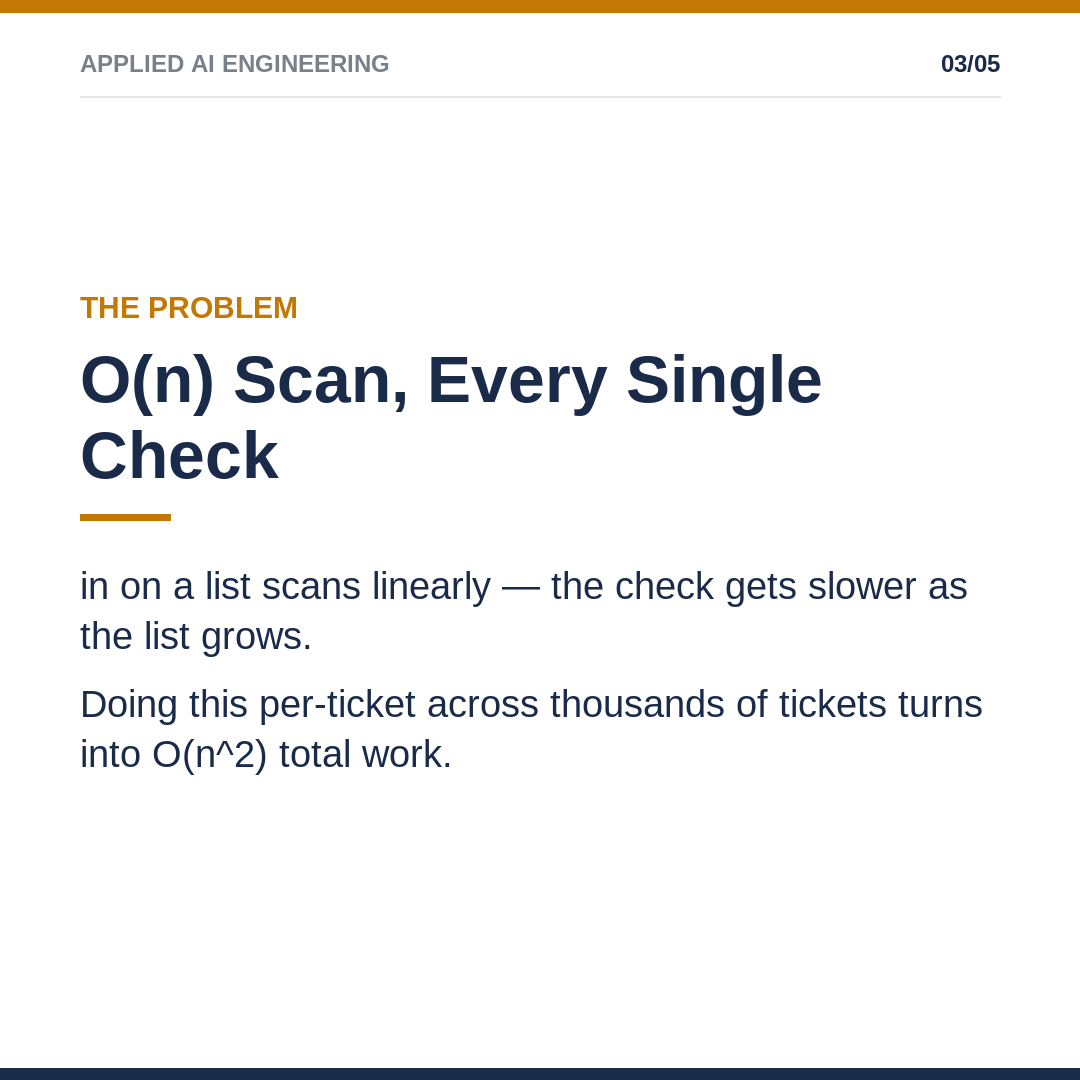
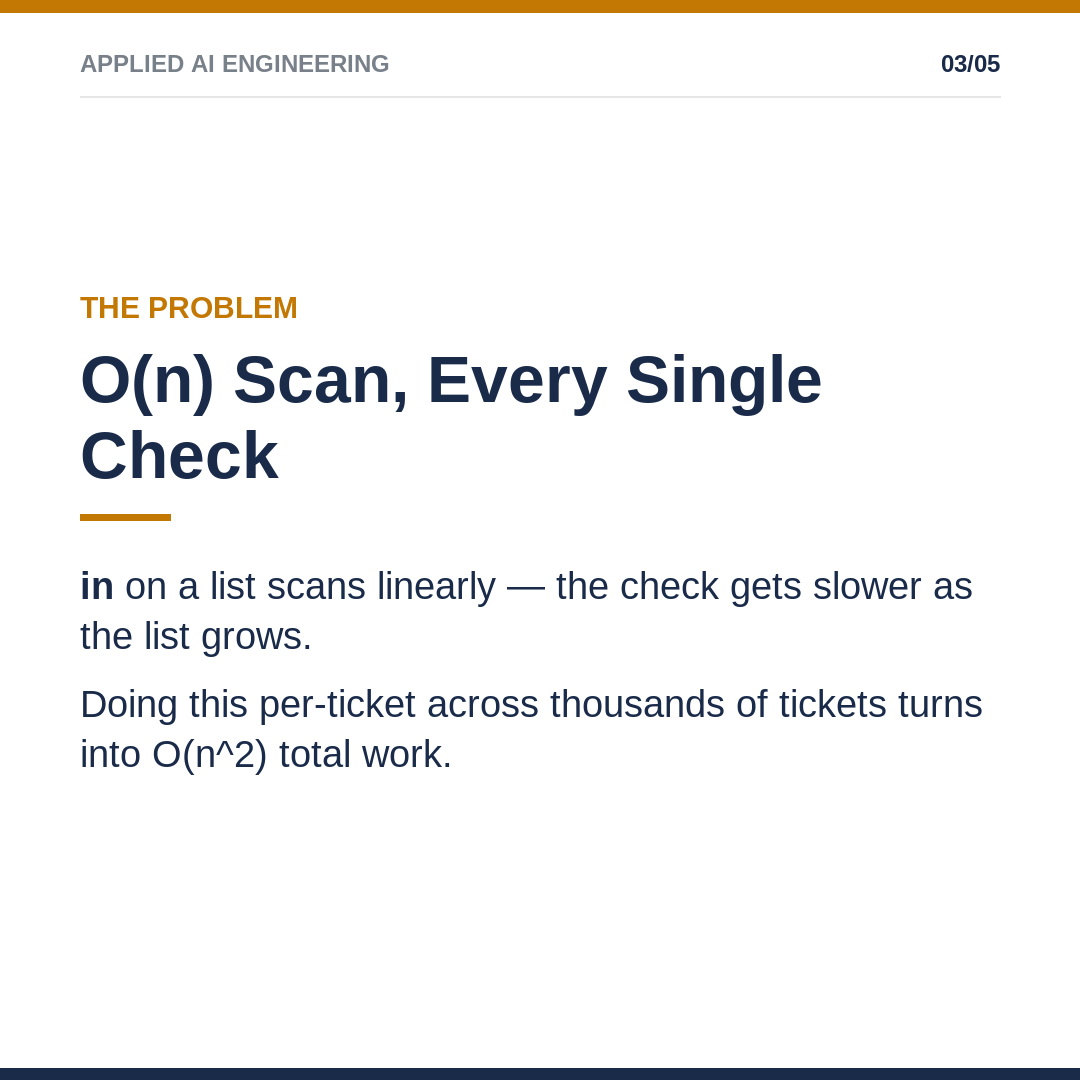
Fix post 26 slide-03: dropped-word fragment ('in on a list' -> bolded 'in')

Changed region(s): [[0.4889, 0.5194, 0.9167, 0.5806], [0.0611, 0.5194, 0.4583, 0.5806]]

diff --git a/assets/social-posts/26-interview-set-vs-list/gen.py b/assets/social-posts/26-interview-set-vs-list/gen.py
@@ -19,7 +19,7 @@ slide(p("slide-02.png"), 2, 5, "The Question", "Thousands Of IDs, One Check",
       code="if ticket_id in processed:  # looks fine... at first")
 
 slide(p("slide-03.png"), 3, 5, "The Problem", "O(n) Scan, Every Single Check",
-      ["in on a list scans linearly — the check gets slower as the list grows.",
+      ["**in** on a list scans linearly — the check gets slower as the list grows.",
        "Doing this per-ticket across thousands of tickets turns into O(n^2) total work."])
 
 slide(p("slide-04.png"), 4, 5, "The Fix", "Swap List For Set",
